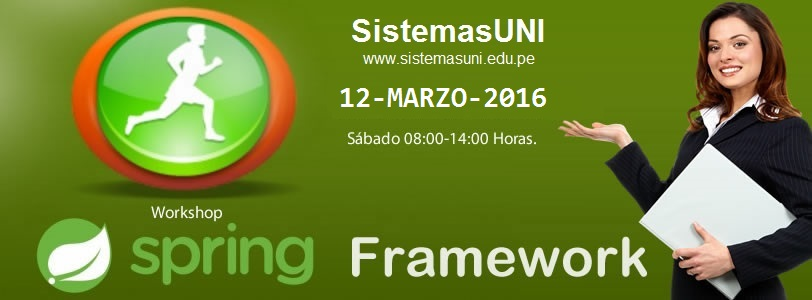
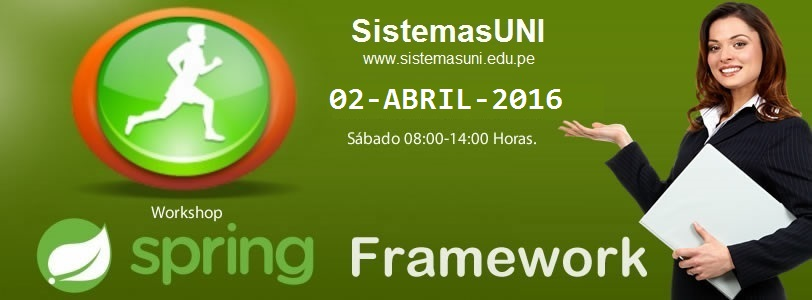
Actualizando repositorio.

Changed region(s): [[0.4002, 0.27, 0.7081, 0.39]]

diff --git a/README.md b/README.md
@@ -3,8 +3,8 @@
 # DATOS GENERALES
 
 - Lugar: SistemasUNI
-- Horario: Sábados de 08:00 a 14:00 Horas
-- Inicio: 12-MARZO-2016
+- Horario: Sábados de 08:00 a 13:00 Horas
+- Inicio: 02-ABRIL-2016
 - Dirección: https://goo.gl/maps/98vwAt9NZMU2
 - Contenido: http://www.sistemasuni.edu.pe/dpdf/Workshops/WorkshopSpringFramework.pdf
 - Sitio web: http://www.sistemasuni.edu.pe
@@ -39,6 +39,6 @@
 
 # CLASE 01 
 
-- Fecha: 12-MARZO-2016
+- Fecha: 02-ABRIL-2016
 
 
